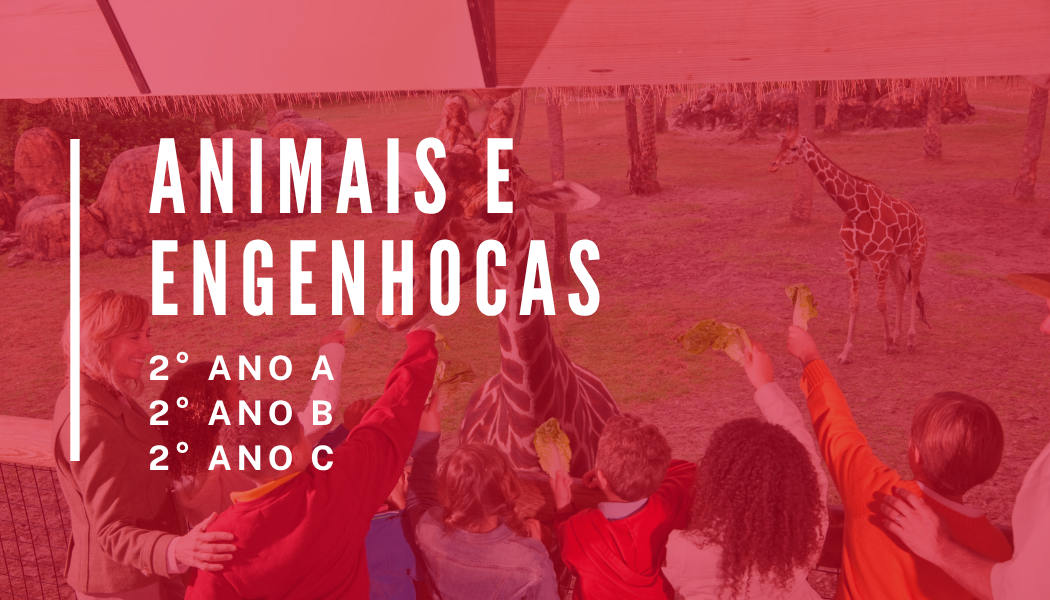
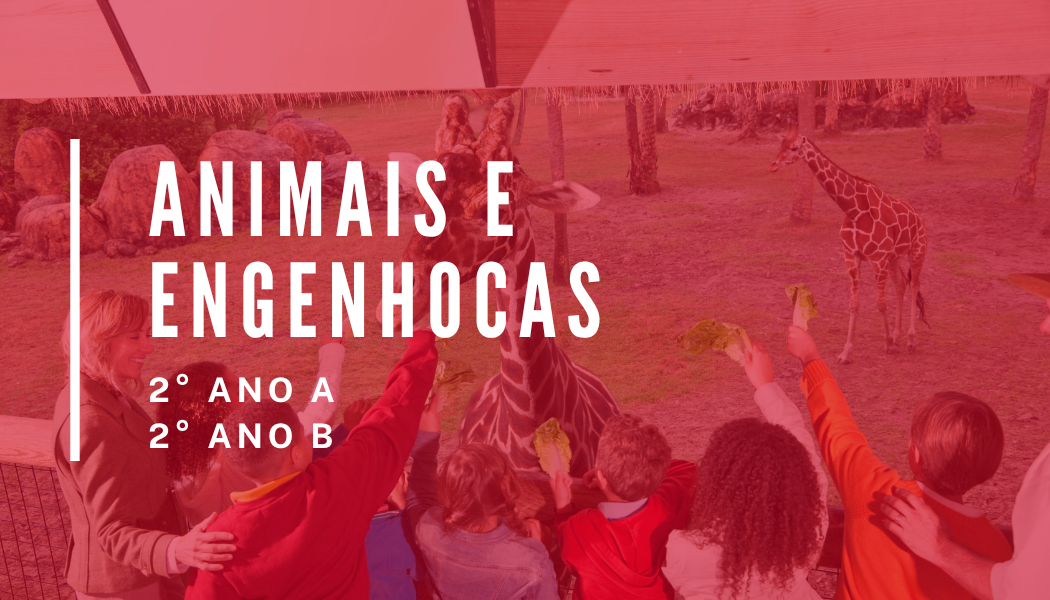
alterando 2 ano C

Changed region(s): [[0.1219, 0.21, 0.579, 0.78]]

diff --git a/script.js b/script.js
@@ -16,7 +16,8 @@
                 ],
                 'Ensino Fundamental 1': [
                     { name: '1º Ano', img: './img/Detetive do tempo.png' },
-                    { name: '2º Ano A e B e C', img: './img/Animais.png' },
+                    { name: '2º Ano A e B', img: './img/Animais.png' },
+                    { name: '2º Ano C', img: './img/plantas.png' },
                     { name: '3º Ano A e C', img: './img/Herois 1.png' },
                     { name: '3º Ano B', img: './img/Audicao.png' },
                     { name: '4º Ano A', img: './img/Oceano.png' },
